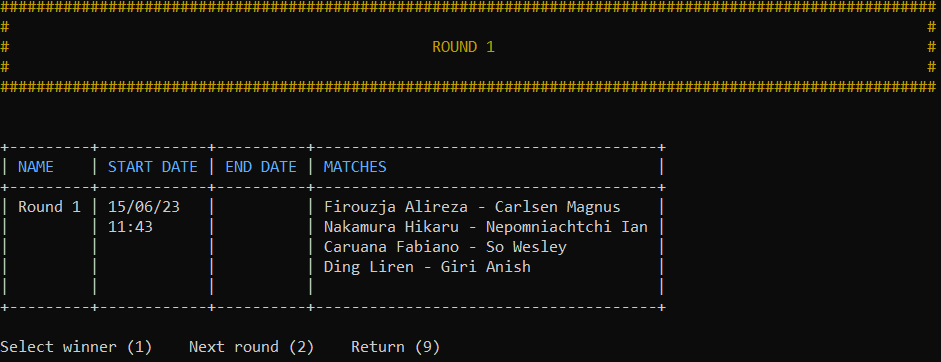
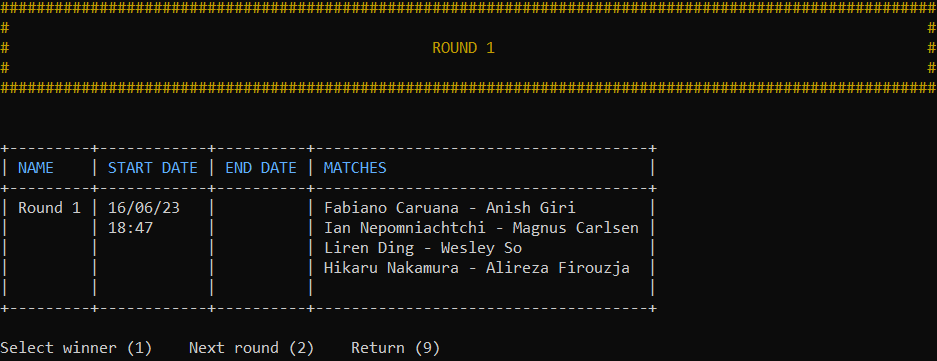
Update imgs, update some display messages

diff --git a/models/match.py b/models/match.py
@@ -78,12 +78,12 @@ class Match:
 
     def get_player_str(self):
         """Stringify Match for str representation"""
-        player_1_str = (f"{self.player_1.last_name} "
-                        f"{self.player_1.first_name}")
+        player_1_str = (f"{self.player_1.first_name} "
+                        f"{self.player_1.last_name}")
         player_2_str = self.player_2
         if not isinstance(self.player_2, str):
-            player_2_str = (f"{self.player_2.last_name} "
-                            f"{self.player_2.first_name}")
+            player_2_str = (f"{self.player_2.first_name} "
+                            f"{self.player_2.last_name}")
         if self.winner:
             player_1_str += f" {self.score_player_1}"
             if not isinstance(self.player_2, str):

diff --git a/views/interface.py b/views/interface.py
@@ -3,7 +3,7 @@ class InterfaceView:
         "home": {
             "label": (
                 f"Player menu (1){' ' * 4}"
-                f"Tournament menu (2){' ' * 4}"
+                f"Tournaments menu (2){' ' * 4}"
                 "Exit (9)"
             ),
             "key": [
@@ -24,7 +24,7 @@ class InterfaceView:
         "tournament": {
             "label": (
                 f"Create tournament (1){' ' * 4}"
-                f"Select tournaments (2){' ' * 4}"
+                f"Select tournament (2){' ' * 4}"
                 f"Search tournament (3){' ' * 4}"
                 f"Export all tournaments (4){' ' * 4}"
                 f"Delete tournament (6){' ' * 4}"

diff --git a/views/title.py b/views/title.py
@@ -33,6 +33,9 @@ class TitleView(Frame):
     def export_players(self):
         print(self.frame("EXPORT PLAYERS"))
 
+    def tournaments_menu(self):
+        print(self.frame("TOURNAMENTS MENU"))
+
     def tournament_menu(self):
         print(self.frame("TOURNAMENT MENU "))
 
@@ -46,7 +49,7 @@ class TitleView(Frame):
         print(self.frame("SEARCH TOURNAMENT "))
 
     def select_tournament(self):
-        print(self.frame("SELECT TOURNAMENTS"))
+        print(self.frame("SELECT TOURNAMENT "))
 
     def export_tournament(self):
         print(self.frame("EXPORT THIS TOURNAMENT"))

diff --git a/controllers/tournament.py b/controllers/tournament.py
@@ -140,7 +140,7 @@ class TournamentsMenu:
         stay = True
         while stay:
             clear_console()
-            self.title_view.tournament_menu()
+            self.title_view.tournaments_menu()
             response = self.interface_view.display_interface('tournament')
             if response == '1':
                 clear_console()
